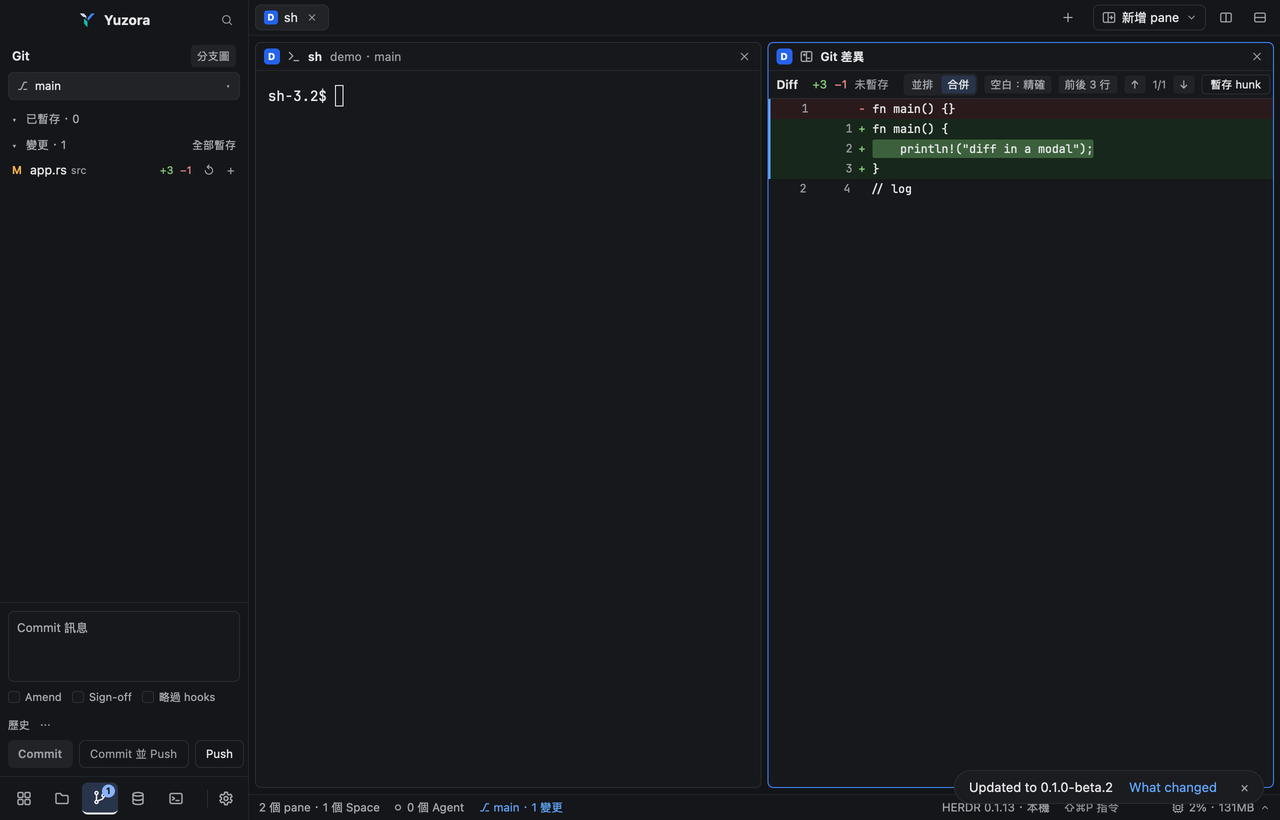
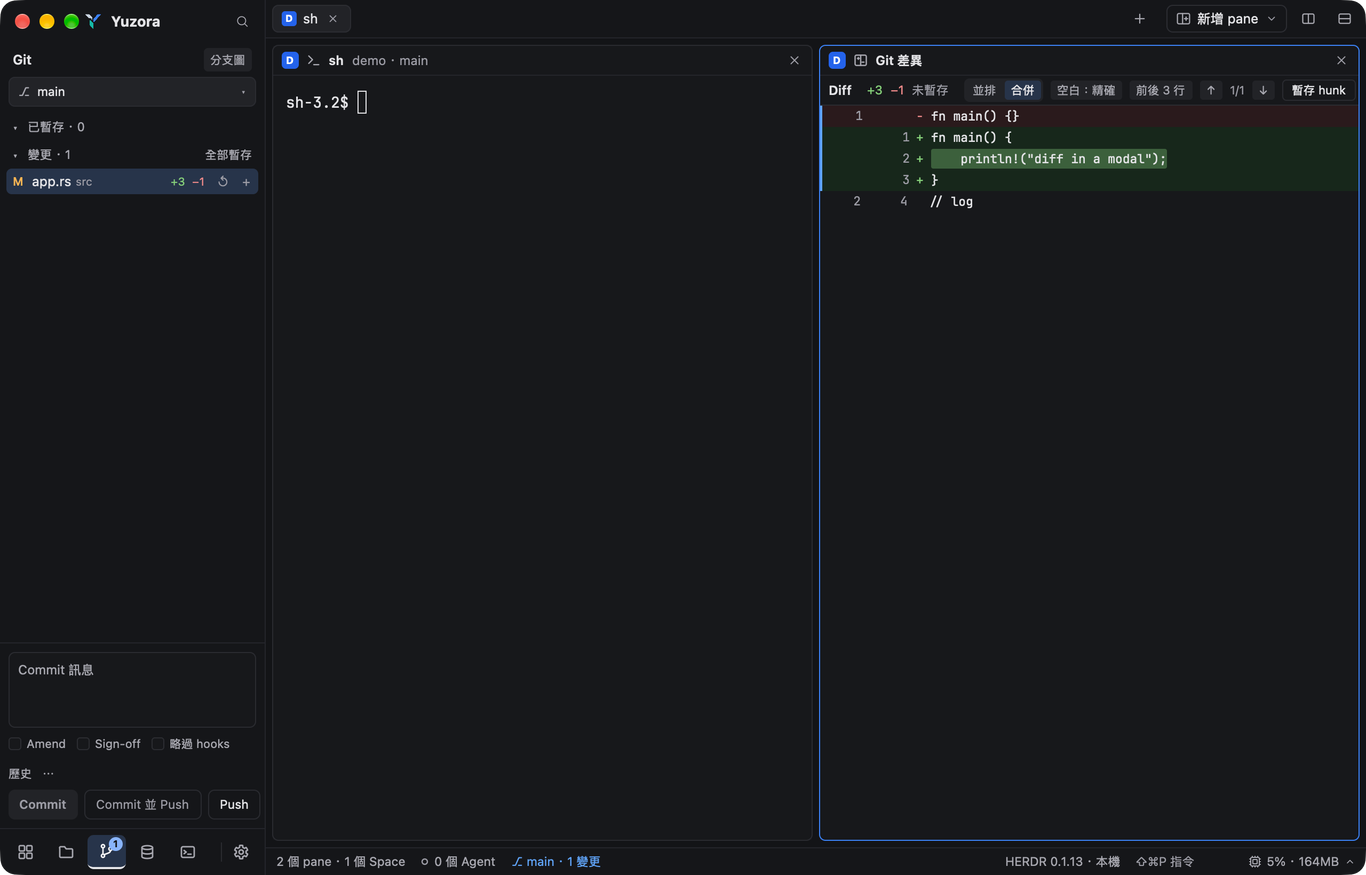
docs(beta2): the diff modal, Keep and a followed pane, clicked
Shots from clicks in the isolated app instead of probe mods: a sidebar file
opens the modal, Keep (in the unified view) splits it beside the terminal,
and the kept pane shows the next file clicked.

diff --git a/docs/beta2/git.md b/docs/beta2/git.md
@@ -241,7 +241,7 @@ gpui-shell 不允許在 `v_virtual_list` 的 item renderer 裡註冊事件（會
 - ✅ Push：force-with-lease、被拒時自動更新、push tags、顯示 push 對話框、受保護分支。
 - ✅ Update／Fetch：更新方式、更新時自動 stash、fetch tags、fetch prune、自動 fetch 間隔。
 - ✅ Log：最近 commit 數（第一階段）、顯示 tags、顯示遠端分支。
-- ✅ Diff／Annotate／Merge（實機截圖：`evidence/l2-diff-modal.png`、`l2-diff-keep.png`）：diff 開啟方式（modal／pane）、保留的位置（分割在目前 pane 旁／新分頁）、已開的 diff pane 是否顯示下一個檔案、預設檢視、空白、context、annotate 忽略空白與偵測移動、rebase 時對調左右。
+- ✅ Diff／Annotate／Merge（實機點擊截圖：`evidence/l2-diff-modal.png`、`l2-diff-keep.png`、`l2-diff-follow.png`）：diff 開啟方式（modal／pane）、保留的位置（分割在目前 pane 旁／新分頁）、已開的 diff pane 是否顯示下一個檔案、預設檢視、空白、context、annotate 忽略空白與偵測移動、rebase 時對調左右。
 - 🟡 GPG 與身分在 repo pane 編輯（repo 或 global 層）。⏳ credential helper 選項、多 repo 同步。
 
 ## 已知限制與後續
